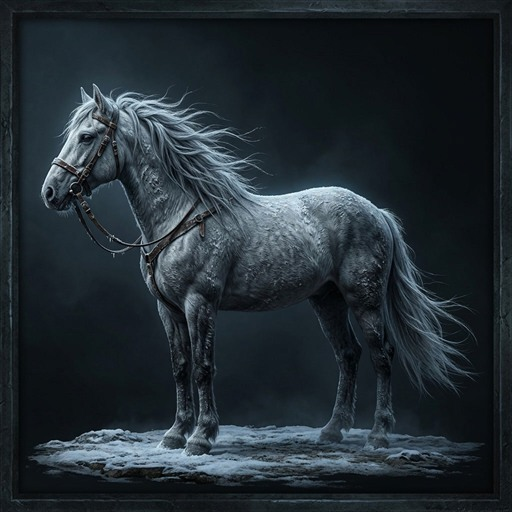
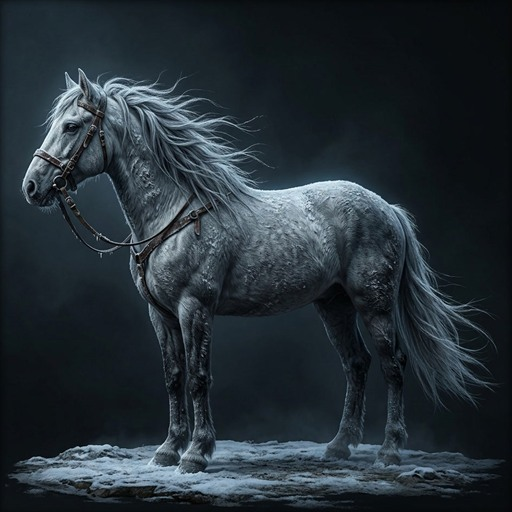
fix(esya): iki gorselin kendi cercevesi kirpildi
kuzeyRuzgari koyu bir tablo cercevesinin icinde, zincirEtek acik renkli
bir kenarlikla duruyordu; oteki 28 gorselin zemini kenara kadar duz
gidiyor, o yuzden bu ikisi izgarada cerceveli tablo gibi duruyordu.

Pay gozle degil OLCULEREK secildi: her kenardan iceri dogru satir/sutun
ortalama parlakligi tarandi. zincirEtek'te beyaz kenarlik 22 pikselde
sahne zeminine iniyor (26 kirpildi), kuzeyRuzgari'nda ahsap cercevenin
ic golgesi 38'de net dusuyor (42 kirpildi).

Kirpma da asildan (yedek/, 1024x1024) yapildi; kuzeyRuzgari ayni
gecipte yeniden aynalandi. Pay her kenarda esit oldugu icin
kirp/aynala sirasi sonucu degistirmiyor.

Olculdu: kirpma sonrasi dort kenarin ortalama parlakligi zincirEtek
15-21, kuzeyRuzgari 10-21 -- dokunulmamis gorsellerle ayni aralikta
(deriPantolon 12-13, bozkirAti 24-26). Kalinti kenarlik yok.

Changed region(s): [[0.0, 0.0, 1.0, 1.0], [0.4375, 0.0, 0.9375, 0.0312], [0.625, 0.625, 0.6562, 0.6562]]

diff --git a/client/src/data/yamaNotlari.js b/client/src/data/yamaNotlari.js
@@ -26,6 +26,22 @@
 
 export const YAMA_NOTLARI = [
   {
+    surum: '2026-09-16q',
+    tarih: '16 Eylül 2026',
+    baslik: 'Eşya çerçeveleri kırpıldı',
+    notlar: [
+      {
+        id: '20260916-esya-cercevesi',
+        tur: 'duzeltme',
+        metin: 'İKİ EŞYANIN KENDİ ÇERÇEVESİ VARDI. Kuzey Rüzgarı bir '
+          + 'tablo çerçevesinin içinde, Zincir Etek açık renkli bir '
+          + 'kenarlıkla duruyordu; öteki yirmi sekiz eşyanın zemini '
+          + 'kenara kadar düz gidiyor. Çerçeveler kırpıldı, ikisi de '
+          + 'artık ötekilerle aynı görünüyor.',
+      },
+    ],
+  },
+  {
     surum: '2026-09-16p',
     tarih: '16 Eylül 2026',
     baslik: 'Eşya görselleri aynı yöne bakıyor',

diff --git a/TODO.md b/TODO.md
@@ -292,7 +292,10 @@ edilebilir boş slotlar orada listelensin (şu an boş hex'e tıklamak gerekiyor
 - Aynalanan hiçbir görselde yazı/rün yok (kontrol edildi); `runBileklik` rünlü ama yönsüz olduğu için listede değil.
 - **DOĞRULANDI**: çevirme sonrası kontakt sayfasında altı atın ve üç çizmenin hepsi sola bakıyor; oyunda kuşam ızgarasında yan yana duran çizme ve at aynı yöne bakıyor.
 
-**AÇIK KALAN (ayrı konu):** iki görselin kendi çerçevesi var — `kuzeyRuzgari` koyu bir tablo çerçevesi, `zincirEtek` açık renkli bir kenarlık. Ötekilerin zemini kenara kadar düz. Kırpılabilir ama bu yön değil çerçeve meselesi; İlkan'a soruldu.
+**ÇERÇEVELER DE KIRPILDI** (İlkan: *"kırp"*). İki görselin kendi kenarlığı vardı — `kuzeyRuzgari` koyu bir tablo çerçevesi, `zincirEtek` açık renkli bir kenarlık; öteki yirmi sekizin zemini kenara kadar düz gidiyor.
+- **Pay gözle değil ÖLÇÜLEREK seçildi.** Her kenardan içeri doğru satır/sütun ortalama parlaklığı tarandı: `zincirEtek`'te beyaz kenarlık 22 pikselde sahne zeminine iniyor (26 kırpıldı), `kuzeyRuzgari`'nda ahşap çerçevenin iç gölgesi 38'de net düşüyor (42 kırpıldı). Tahminle kırpmak ya çerçeveyi bırakır ya sanattan yer yerdi.
+- Kırpma da ASILDAN yapıldı; `kuzeyRuzgari` aynı geçişte yeniden aynalandı. Pay her kenarda eşit olduğu için kırp/aynala sırası sonucu değiştirmiyor.
+- **ÖLÇÜLDÜ**: kırpma sonrası dört kenarın ortalama parlaklığı `zincirEtek` 15–21, `kuzeyRuzgari` 10–21 — dokunulmamış görsellerle aynı aralıkta (`deriPantolon` 12–13, `bozkirAti` 24–26). Kalıntı kenarlık yok.
 
 ### Görev zincirine kahraman adımları tamamlandı (16 Eylül 2026)
 - TODO'da bekleyen madde: *"iki tanesi eklendi (konağı kur, seviye 3), macera ve eşya gelince ikisi daha eklenmeli."* İkisi de artık oyunda, adımlar eklendi.
